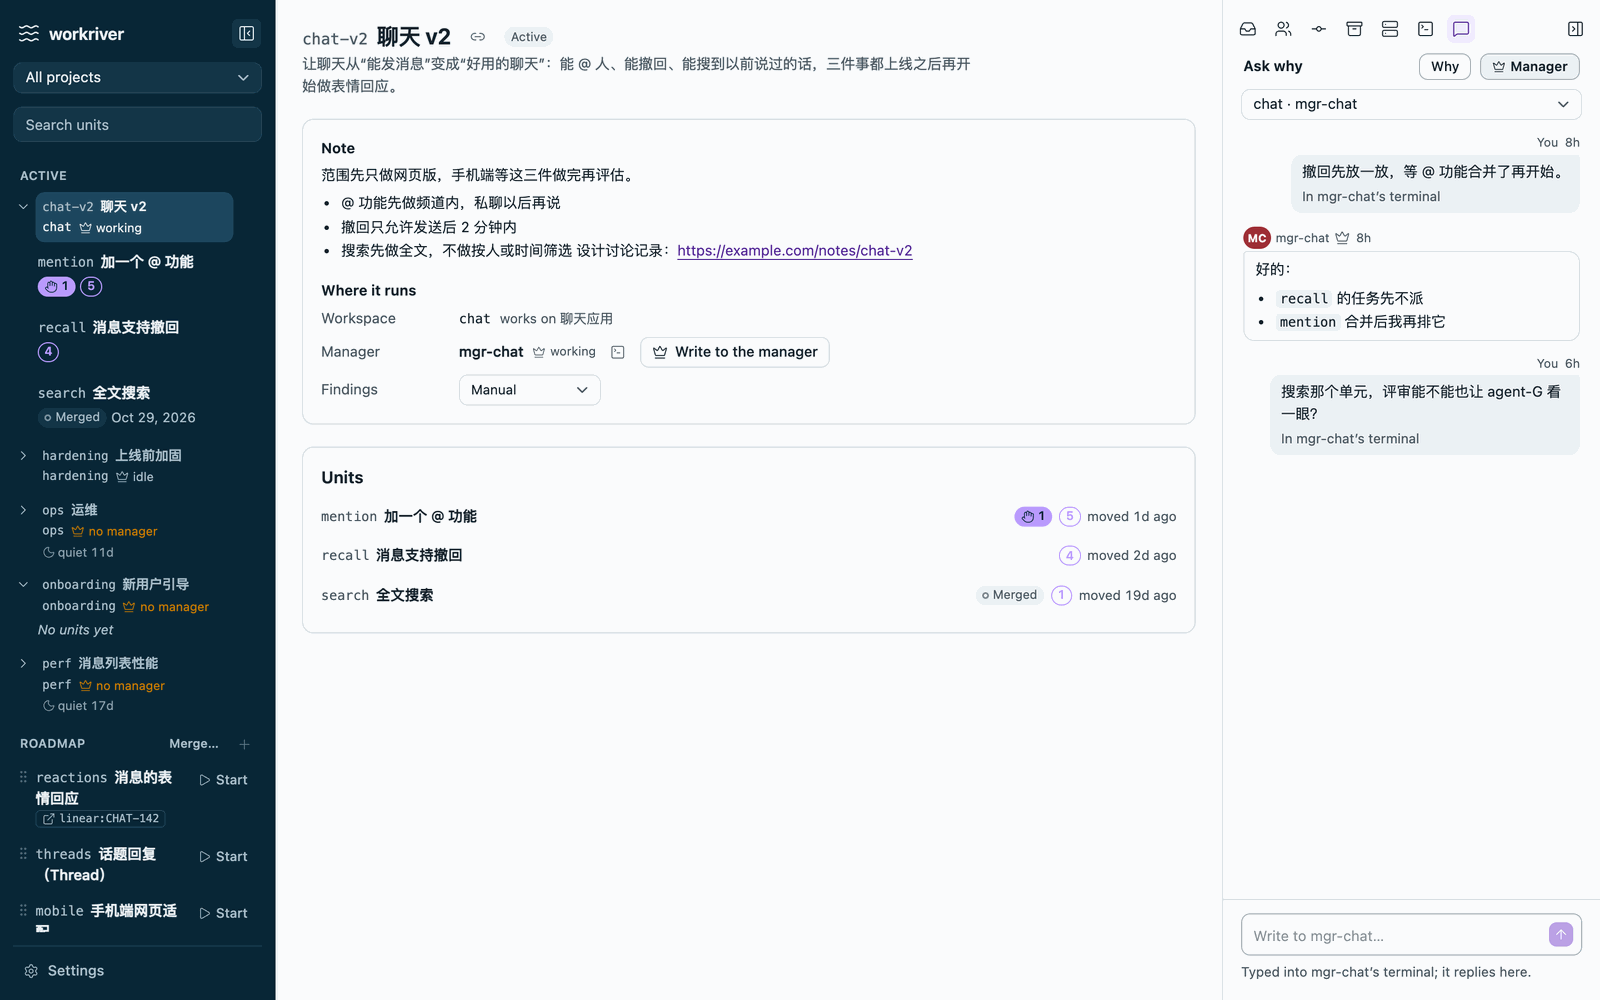
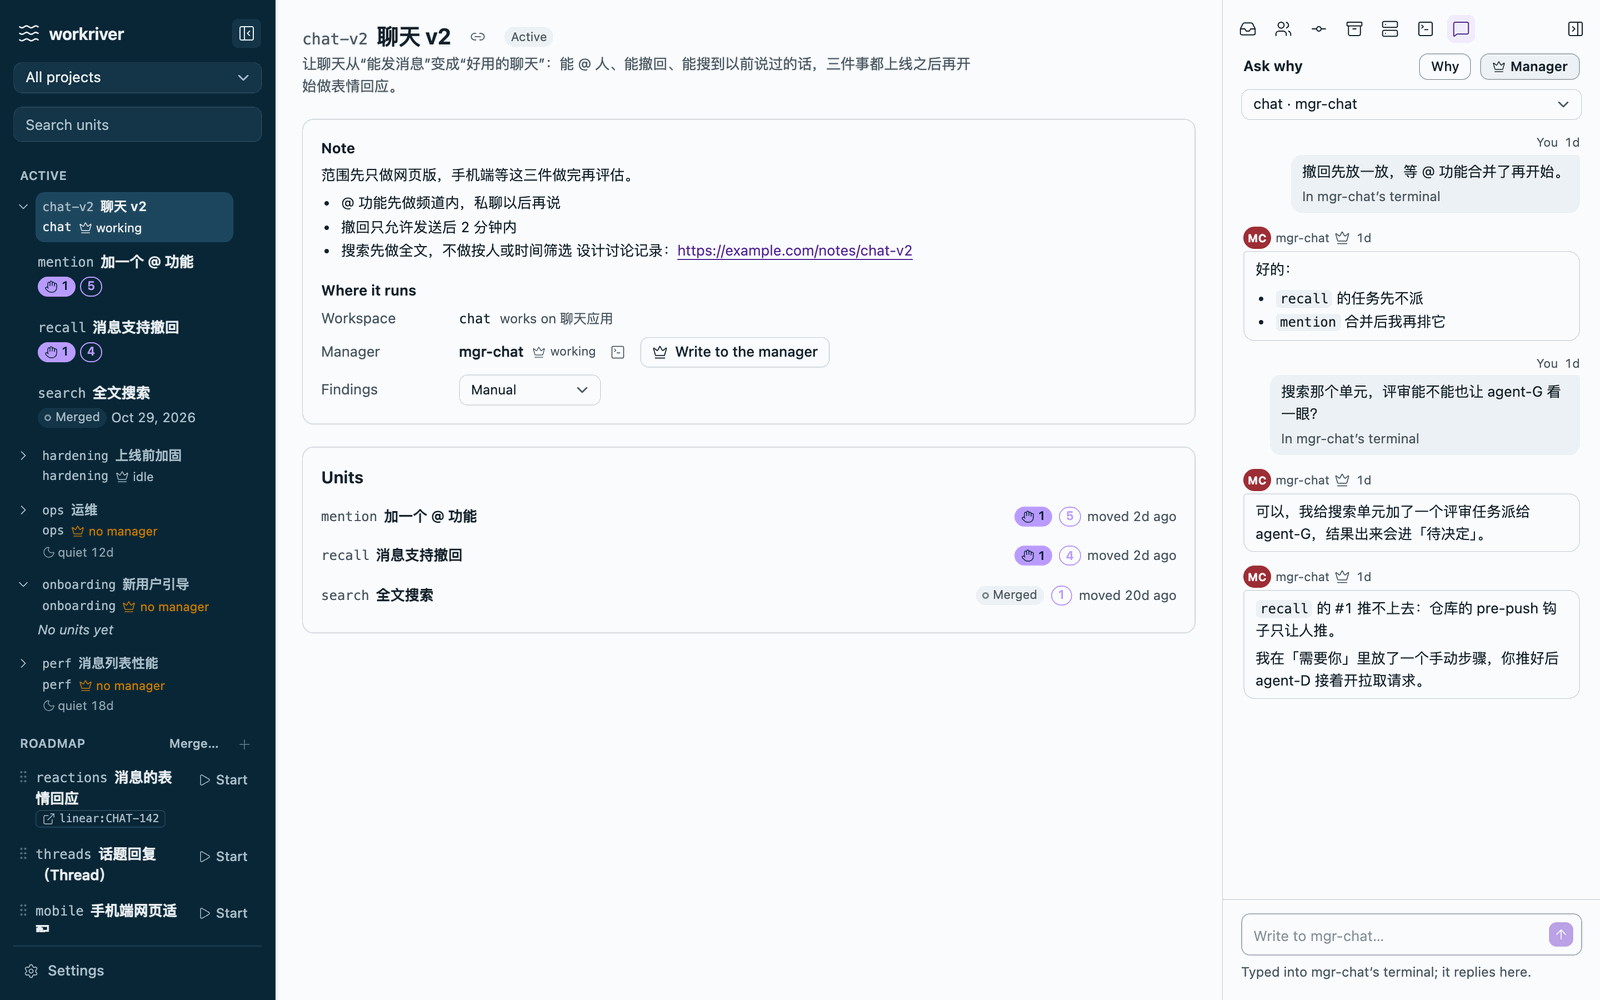
README: blockers, manager messages, command review, spikes and worktrees as on main 848a495
- How it works: a manager's messages arrive in Needs you; a stuck worker puts a
  blocker before its task. Terms: a unit has its own worktree; spike units; blocker.
- Intent page: the manager can start a message. Graph: the blocker mark.
- Needs you: blockers, the review of a command before it runs, recent runs, the
  Messages group, groups that fold.
- Merge: the manager removes the unit's worktree; a spike is never merged.
  Status and Build and run: command review; one manager per workspace, from its pane.
- Pictures retaken (en, zh-CN): overview, intent page, Needs you (Machines and
  Decisions folded), activity graph (legend has Blocker). Agents, task detail,
  findings and code unchanged.
- Sample data: mgr-chat's own message said `mention` was merged, which the story
  and the pictures contradict; it now tells of recall's push blocker.

Task: u2#11

Changed region(s): [[0.7812, 0.465, 0.9688, 0.713], [0.625, 0.527, 0.6562, 0.589], [0.0, 0.341, 0.0625, 0.372]]

diff --git a/README.md b/README.md
@@ -41,42 +41,48 @@ Three things feed it:
   messages to agents.
 - **One manager agent per Herdr workspace plans.** It splits an intent into units and
   tasks and hands the tasks to worker agents it starts by name. When it needs you (before a
-  merge, a deploy, anything destructive) it asks through Needs you, not in its terminal.
-  workriver records and delivers; the manager schedules.
+  merge, a deploy, anything destructive) it asks through Needs you, not in its terminal,
+  and what it has to tell you arrives there too. A worker stuck on what only you can do
+  (a refused push, a missing login) puts a blocker before its own task, and goes on once
+  you have done it. workriver records and delivers; the manager schedules.
 
 What they report becomes one picture, in a few terms. A **project** is a folder of
 repositories. An **intent** is a goal in it. A **unit** is a piece of an intent built on
-its own branch; research and design for the whole intent go in a research unit, which has
-no branch and is never merged. A **task** is one piece of work handed to one agent
-(implement, review, tests, research) or to you: a **gate** ("Manual step" in the UI), a
-step only you can do, such as a manual deploy, a try-out or a decision, that an agent
-waits on. A **finding** is a problem a review, tests or a gate found. **Evidence** is a check run on a task's work, the command and its
-result.
+its own branch, in a worktree of its own; research and design for the whole intent go in a
+research unit, which has no branch and is never merged, and an experiment goes in a spike,
+whose code is kept on its branch to show how and never merged. A **task** is one piece of
+work handed to one agent (implement, review, tests, research) or to you: a **gate**
+("Manual step" in the UI), a step only you can do, such as a manual deploy, a try-out or a
+decision, that an agent waits on; one an agent puts before its own task when it is stuck
+is a blocker. A **finding** is a problem a review, tests or a gate found. **Evidence** is
+a check run on a task's work, the command and its result.
 
 ## One intent, from goal to merge
 
 The pictures come from the sample data built into the UI: a chat app, its content written
 in Chinese.
 
-**The goal.** The chat app needs @-mentions, message recall and search. The intent
-"聊天 v2" waits in the project's roadmap with a one-sentence goal. You press "Start" next to
-it and pick the Herdr workspace "chat"; its manager, mgr-chat, is told and splits the
-intent into units, one of them "加一个 @ 功能" (add @-mentions) on the branch
-`feat/mention`. The intent has a page of its own: the goal, a note that grows as decisions
-are made, where it runs, who decides its findings, and its units with where each stands.
-"Write to the manager" opens a conversation beside it: what you write is typed into
-mgr-chat's terminal, and its replies come back to the page.
+**The goal.** The chat app needs @-mentions, message recall and search. The intent "聊天 v2"
+waits in the project's roadmap with a one-sentence goal. You press "Start" next to it and
+pick the Herdr workspace "chat"; its manager, mgr-chat, is told and splits the intent into
+units, one of them "加一个 @ 功能" (add @-mentions) on the branch `feat/mention`. The intent
+has a page of its own: the goal, a note that grows as decisions are made, where it runs,
+who decides its findings, and its units with where each stands. "Write to the manager"
+opens a conversation beside it: what you write is typed into mgr-chat's terminal, and its
+replies come back to the page. The manager can start a message too; here it tells you that
+a push in another unit is waiting for you.
 
-![The page of the intent 聊天 v2: its goal, note, workspace and manager, findings set to Manual, its three units, and beside it a conversation with its manager](docs/images/intent-page.en.png)
+![The page of the intent 聊天 v2: its goal, note, workspace and manager, findings set to Manual, its three units, and beside it a conversation with its manager, who answered and later wrote unasked](docs/images/intent-page.en.png)
 
 **The work as a graph.** Inside the unit, every task is a node in the activity graph, with
 an input and an output. #1 finds the people a message mentions, #2 notifies them, and a
-review follows each. When a review raises findings the flow branches: each accepted finding
-leads to new tasks, and the lines join again where the work does. An amber dotted line is
-work flowing now, dashed lines are secondary inputs, and a violet count marks findings
-waiting for you. A small "+N" under a node says its commits reached N folders that nothing
-before it on its line had touched: there the work grew in scope. A long graph opens on its
-latest work, with a minimap of the whole; zoomed out, as here, all of it shows.
+review follows each. When a review raises findings the flow branches: each accepted
+finding leads to new tasks, and the lines join again where the work does. An amber dotted
+line is work flowing now, dashed lines are secondary inputs, and a violet count marks
+findings waiting for you. A blocker carries a "!" mark, and the task it holds up a violet
+hand. A small "+N" under a node says its commits reached N folders that nothing before it
+on its line had touched: there the work grew in scope. A long graph opens on its latest
+work, with a minimap of the whole; zoomed out, as here, all of it shows.
 
 ![The activity graph of the unit "加一个 @ 功能": implement tasks, the security and code reviews after them, the tasks the code review's findings led to, two marked where the scope grew, a dropped question to merge, and a try-out gate near the end](docs/images/activity-graph.en.png)
 
@@ -105,13 +111,19 @@ since that work must meet it.
 **What is waiting on you.** Needs you is one queue across every workspace. First what
 blocks someone: agents waiting for a person in their terminal, workers that stopped
 without delivering, and gates, among them the questions a manager asks you (merge now?
-which design?). Here agent-E asks whether it may run `npm test`, and a gate waits for you
-to try whether an @ notification says who mentioned you; its steps say what to do, and a
-step with a command has "Run", which runs it in a shell of your own once you confirm it. Then machines past an
-alert threshold, then decisions on findings, then gaps such as a commit that names no
-task, and last the chores that block nobody.
+which design?) and the blockers workers put. Here agent-E asks whether it may run
+`npm test`, a gate waits for you to try whether an @ notification says who mentioned you,
+and a blocker from the unit "消息支持撤回" (message recall) asks you to push its branch:
+the repository's hook lets only people push. A gate's steps say what to do, and a step
+with a command has "Run", which runs it in a shell of your own once you confirm it. While
+you look at the confirm dialog, a temporary agent reads the command and the scripts it
+calls and says what it will change, with a verdict: ok, caution or danger. It only warns;
+you decide. The last runs stay listed under "Run a command" in the side panel. Then come
+machines past an alert threshold, decisions on findings, the messages managers wrote that
+you have not read, gaps such as a commit that names no task, and last the chores that
+block nobody. Each group folds by its heading; here Machines and Decisions are folded.
 
-<img src="docs/images/needs-you.en.png" width="340" alt="Needs you: three rows blocking (an agent waiting in its terminal, a worker that stopped, a try-out gate), four machine alerts, and the first decisions on findings">
+<img src="docs/images/needs-you.en.png" width="340" alt="Needs you: four rows blocking (an agent waiting in its terminal, a worker that stopped, a try-out gate, a blocker asking for a push), Machines and Decisions folded, two managers' unread messages, two gaps and four chores">
 
 **Who is doing what.** Agents are a tree by Herdr workspace: the manager, the workers under
 it with the task each is on, and the temporary agents answering questions under the worker
@@ -134,19 +146,20 @@ what agents are writing right now on top.
 manager asks in Needs you whether to merge; after your yes, push, pull request and merge
 are each a task of their own. workriver sees the merge in git and the unit reads "Merged"
 with its date; a squash merge, which git cannot show, is pointed out for the manager to
-record. A research unit is never merged: once its work is decided it reads "Ready to
-close". When every unit of the intent is merged or done, its header says "Finished", for
-its manager to close it, along with the workers it no longer needs.
+record. The manager then removes the unit's worktree. A research unit or a spike is never
+merged: once its work is decided it reads "Ready to close". When every unit of the intent
+is merged or done, its header says "Finished", for its manager to close it, along with the
+workers it no longer needs.
 
 ## Status
 
 First version, usable. The service records intents, units, tasks, findings and chores,
 reads the units' commits from git, follows the agents running in Herdr, keeps each
 project's roadmap and backlog, delivers your decisions, gate results and messages to the
-right agent, runs the commands you confirm in your own shell, watches the machines' load,
-and serves the web UI on real data in English and Chinese. Agents on other machines (each
-with its own Herdr) can be followed over ssh; that part is new and has only been tested
-against stand-ins.
+right agent, runs the commands you confirm in your own shell after an agent has read what
+they do, watches the machines' load, and serves the web UI on real data in English and
+Chinese. Agents on other machines (each with its own Herdr) can be followed over ssh; that
+part is new and has only been tested against stand-ins.
 
 ## Build and run
 
@@ -168,10 +181,10 @@ other machines cannot. What that does and does not protect: [Security model](doc
 
 Data lives in `~/workriver-data/workriver.db` (set `WORKRIVER_HOME` to move it).
 `workriver --help` explains the commands. The manager of a workspace registers with
-`workriver manager here`, and `workriver guide manager` / `workriver guide worker` print the
-instructions for agents. Herdr's socket is `~/.config/herdr/herdr.sock` (or
-`HERDR_SOCKET_PATH`); without Herdr the service still records and shows, it just sees no
-agents.
+`workriver manager here` from its own pane, one per workspace, and `workriver guide
+manager` / `workriver guide worker` print the instructions for agents. Herdr's socket is
+`~/.config/herdr/herdr.sock` (or `HERDR_SOCKET_PATH`); without Herdr the service still
+records and shows, it just sees no agents.
 
 Working on the UI: `npm run dev` in `frontend/web` uses a running `workriver serve`;
 `npm run dev:mock` uses the sample data instead.
